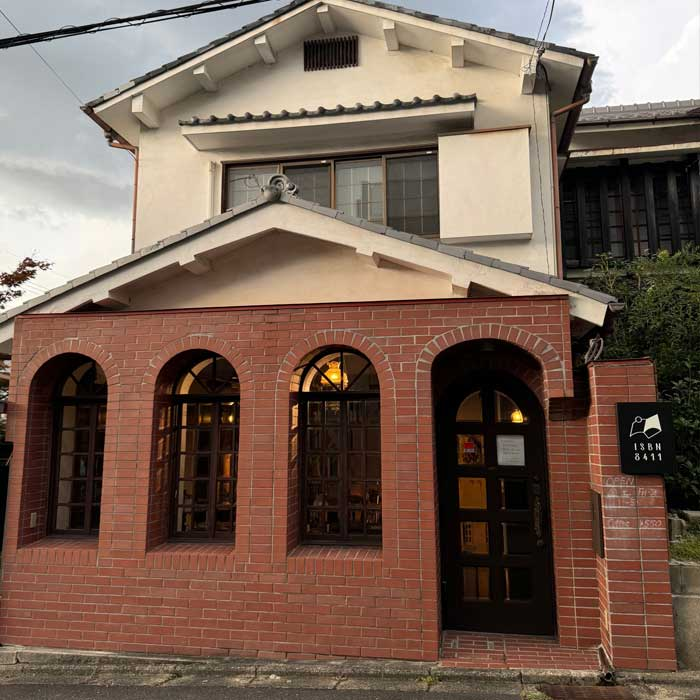
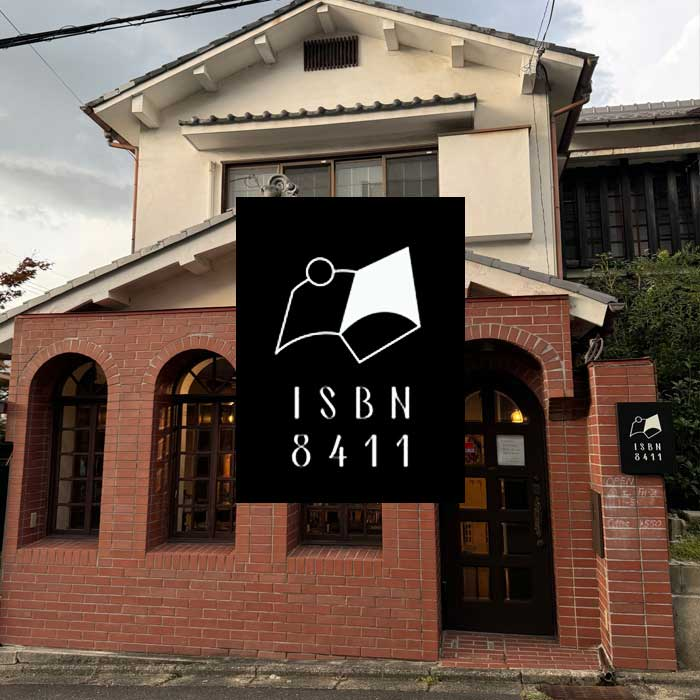
add asterisk

Changed region(s): [[0.33, 0.27, 0.69, 0.72]]

diff --git a/components/Home/Partners.vue b/components/Home/Partners.vue
@@ -86,6 +86,23 @@ const partners: PartnerHomepageData[] = [
       '人類学者・森田敦郎氏が率いるクリティカル・メイキングの研究ラボラトリーと共に、エネルギーや持続可能な未来を考えるための連携拠点としてBridge Toを活用頂いています。',
   },
   {
+    id: 'asterisk',
+    name: '*** in Residence Kyoto',
+    url: 'https://asterisk-kyoto.info',
+    description:
+      'A city-supported program focusing on creative residencies in Kyoto.',
+    descriptionJa: '京都発の創造的滞在を考える。',
+  },
+  {
+    id: 'isbn',
+    name: 'ISBN',
+    url: 'https://asterisk-kyoto.info/246244a9faec8163a765d51ca7d6fc01',
+    description:
+      'A residency housed in a 1940s-renovated former woodblock print studio in Sakyo Ward, Kyoto.',
+    descriptionJa:
+      '1940年代にリニューアルされた京都・左京区の木版画スタジオにて、アーティスト・イン・レジデンスを展開しています。',
+  },
+  {
     id: 'forest',
     name: 'Forest of Craft',
     nameJa: '工藝の森',
@@ -132,15 +149,6 @@ const partners: PartnerHomepageData[] = [
       'Res Artis: Worldwide Network of Arts Residencies is a 31 year old network of arts residency operators from around the globe.',
     descriptionJa:
       '80か国以上で650を超えるメンバーが所属するアーティスト・イン・レジデンスの世界的なネットワーク。',
-  },
-  {
-    id: 'isbn',
-    name: 'ISBN',
-    url: 'https://asterisk-kyoto.info/246244a9faec8163a765d51ca7d6fc01',
-    description:
-      'A residency housed in a 1940s-renovated former woodblock print studio in Sakyo Ward, Kyoto.',
-    descriptionJa:
-      '1940年代にリニューアルされた京都・左京区の木版画スタジオにて、アーティスト・イン・レジデンスを展開しています。',
   },
 ]
 
